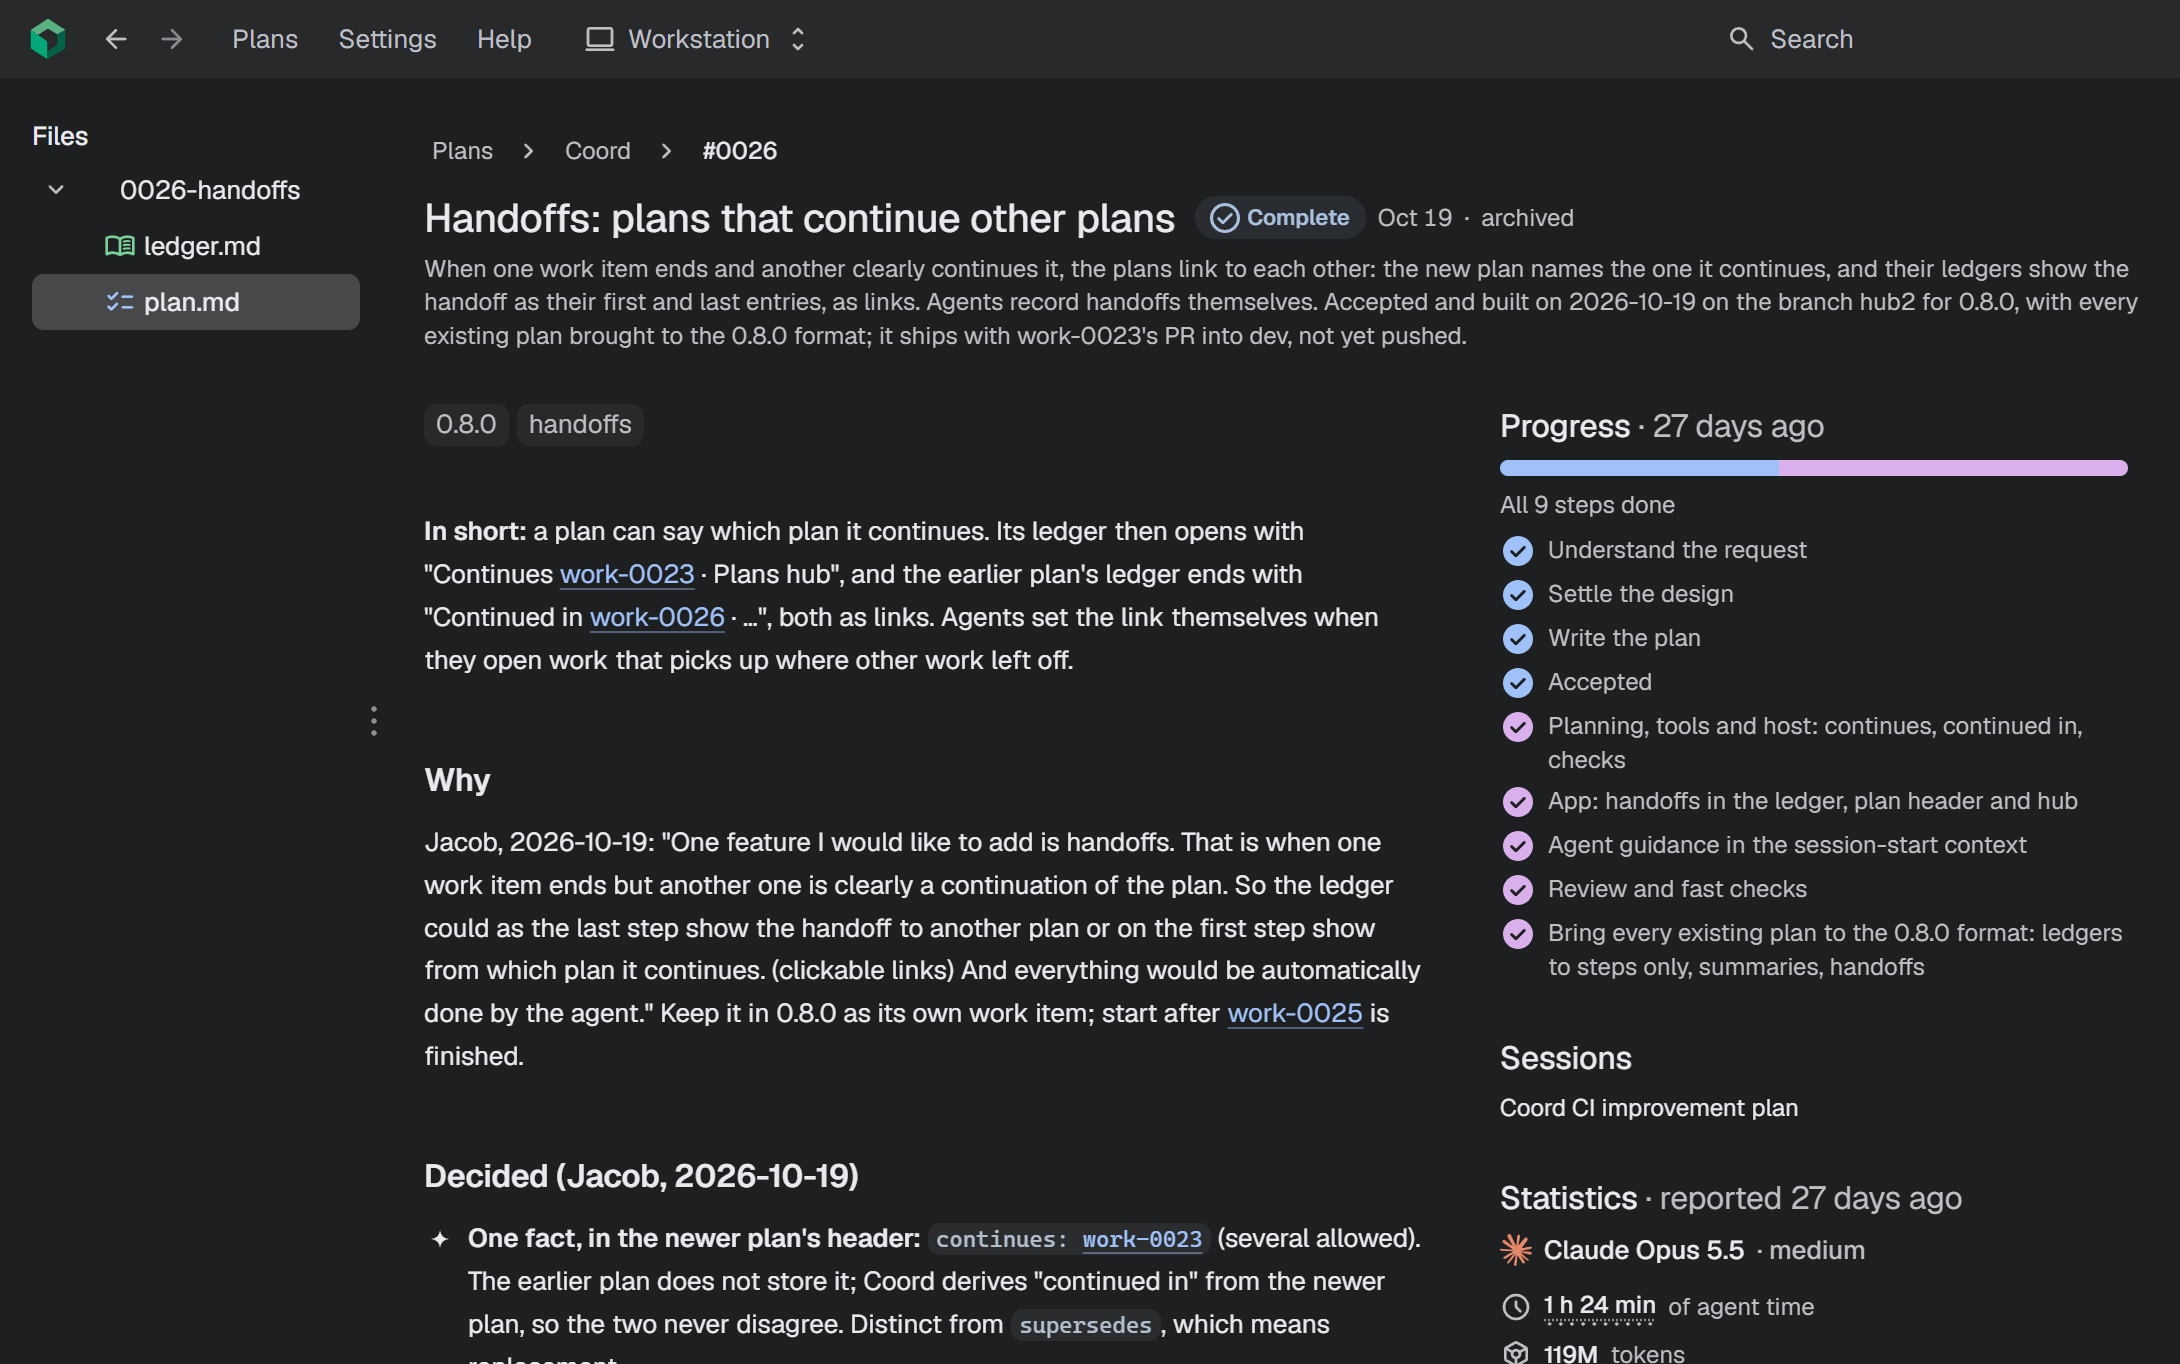
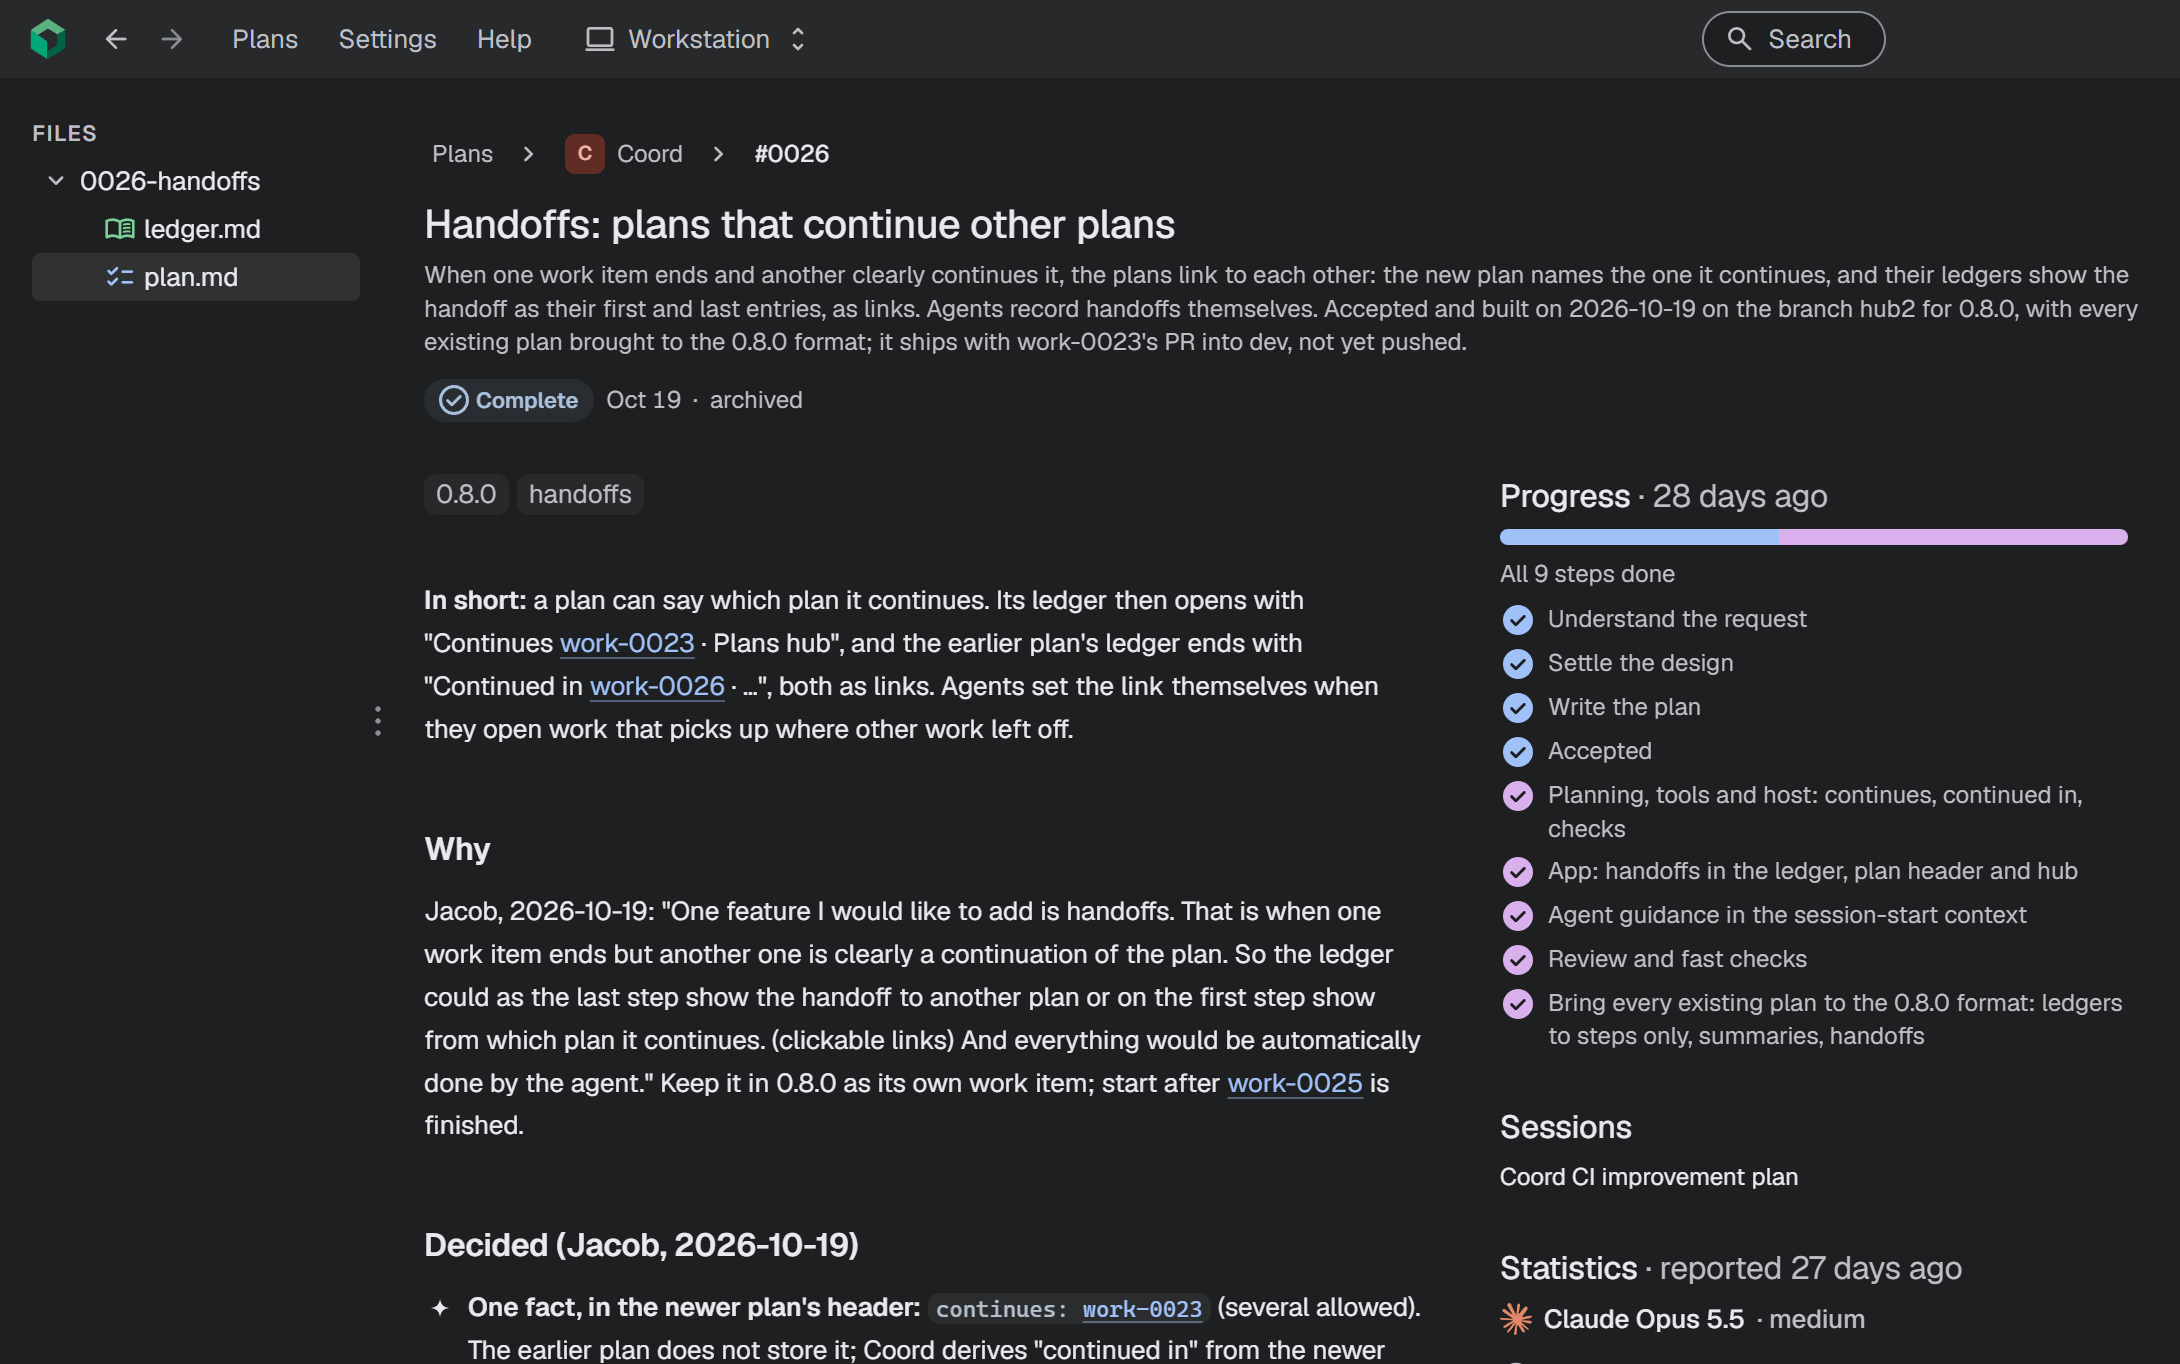
Site: the screenshots retaken from the current app
The hub shows Coord's and envUI's plans with their projects' avatars and the hub's controls on the title's line. The plan (#0026), a plan's statistics (#0035) and the home database diagram (#0041) come from the current build.

diff --git a/site/src/App.tsx b/site/src/App.tsx
@@ -81,7 +81,7 @@ function Home() {
  */
 const screenshots: { key: string; label: string; text: ReactNode; shot: string; focus: string; alt: string }[] = [
   { key: 'turn', label: 'Shows which plans are Your turn', text: <>Shows which plans are <State kind="turn">Your turn</State></>,
-    shot: hub, focus: '0%', alt: "Coord's own plans: Your turn first, each saying what to do, then Waiting and Later, with the models that worked on them." },
+    shot: hub, focus: '0%', alt: "Coord's and envUI's own plans, each with its project's avatar: Your turn first, each saying what to do, then Working, Waiting and Later, with the models that worked on them." },
   { key: 'plan', label: 'Grills you until the plan goes Draft to Accepted', text: <>Grills you until the plan goes <span className="nowrap"><State kind="draft">Draft</State> → <State kind="accepted">Accepted</State></span></>,
     shot: plan, focus: '38%', alt: "One of Coord's own plans, complete: what it does in short, why the user asked for it in their own words, and its steps from understanding the request to accepted and done." },
   { key: 'diagram', label: 'Captures your code and database as a class diagram', text: <>Captures your code and database as a <Ref kind="diagram">class diagram</Ref></>,
